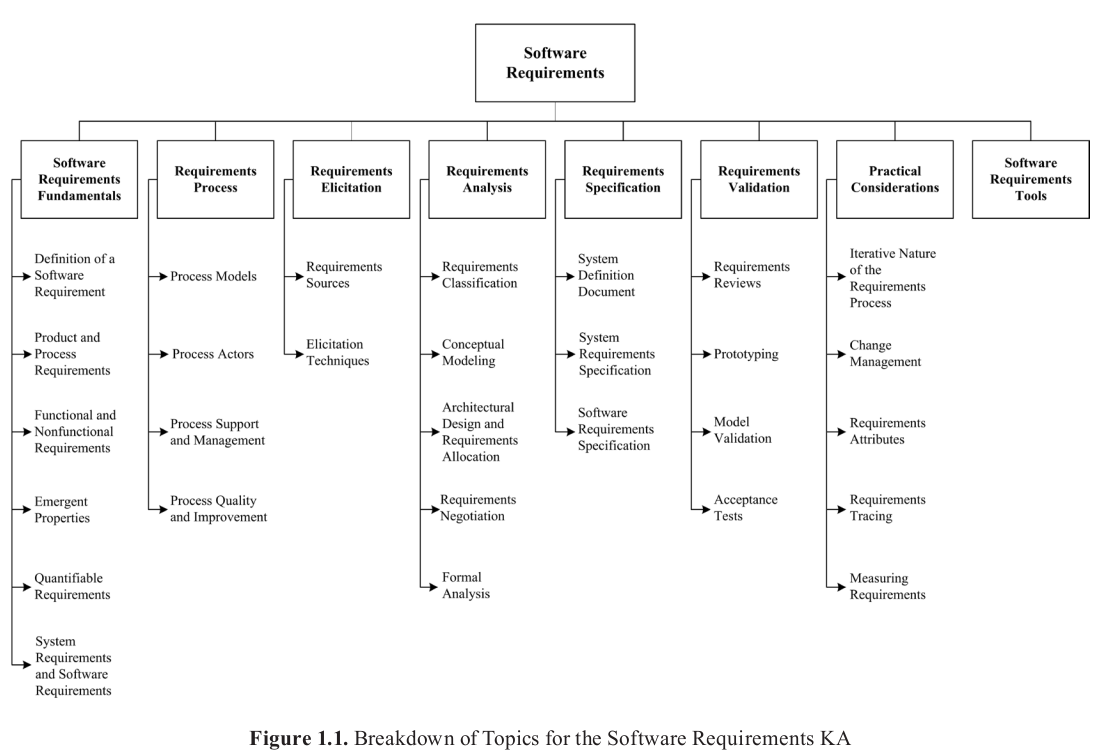
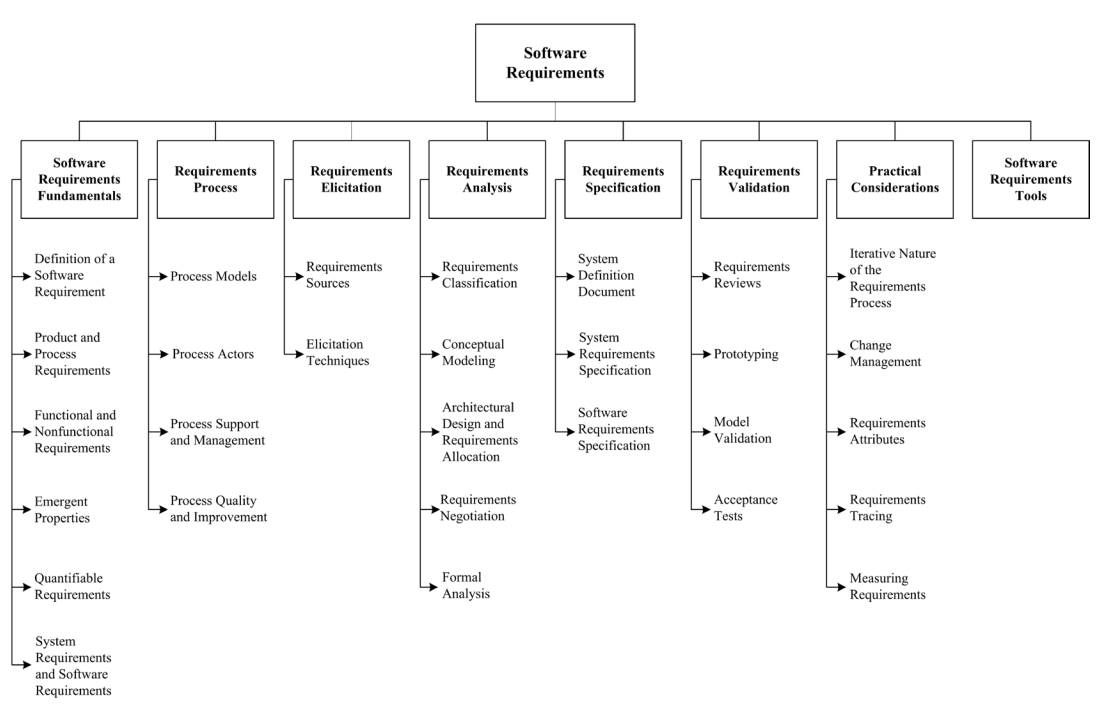
Add a figure to Software Requirements
Follows up #2

diff --git a/1_software_requirements.md b/1_software_requirements.md
@@ -98,7 +98,7 @@ before he or she registers for a course”). A process requirement is essentiall
 a constraint on the development of the software (for example, “The software
 shall be developed using a RUP process”).
 
-Figure 1.1. Breakdown of Topics for the Software Requirements KA
+![Figure 1.1 Breakdown of Topics for the Software Requirements KA](images/Figure-1.1.png)
 
 Some software requirements generate implicit process requirements. The choice
 of verification technique is one example. Another might be the use of
